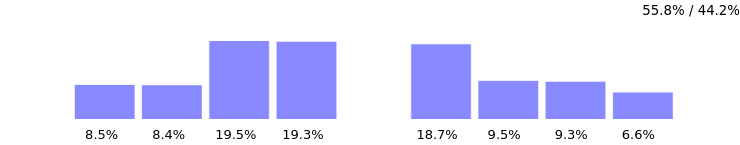
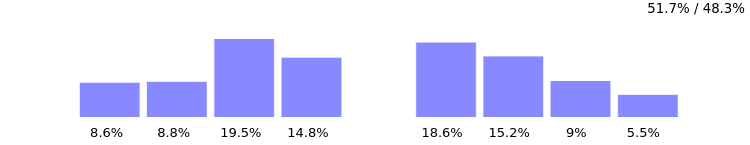
Updated the main page, in order to fit the new version.

diff --git a/index.html b/index.html
@@ -12,13 +12,13 @@
 </head>
 <body>
 
-  <h1> ErgoL </h1>
+  <h1> Ergo-L </h1>
   <p> Une disposition de clavier optimisée pour les développeurs francophones et
     les typographes exigeants. </p>
 
   <div id="demo">
     <div>
-      <input spellcheck="false" placeholder="zone de saisie ErgoL">
+      <input spellcheck="false" placeholder="zone de saisie Ergo-L">
       <x-keyboard src="layouts/ergol.json"></x-keyboard>
       <p>
         <span> powered by
@@ -40,8 +40,8 @@
     <li> disposition <strong>optimisée pour le français et l’anglais</strong> </li>
     <li> couche AltGr optimisée pour l’enchaînement des symboles de programmation </li>
     <li> <strong>conservation des raccourcis usuels</strong> :
-      <kbd>Ctrl</kbd>-{<kbd>Q</kbd>,<kbd>A</kbd>,<kbd>S</kbd>,<kbd>Z</kbd>,<kbd>X</kbd>}
-      (<kbd>Ctrl</kbd>-{<kbd>C</kbd>,<kbd>V</kbd>} sont décalés, mais reste faisable d’une main) </li>
+      <kbd>Ctrl</kbd>-{<kbd>Q</kbd>,<kbd>A</kbd>,<kbd>S</kbd>,<kbd>Z</kbd>,<kbd>X</kbd>,<kbd>V</kbd>}
+      (<kbd>Ctrl-<kbd>C</kbd> est décalé, mais reste faisable d’une main) </li>
     <li> support de tous les caractères spéciaux utilisés en français
       (diacritiques, majuscules accentuées, lettres entrelacées, symboles de ponctuation…) </li>
     <li> <strong>chiffres en accès direct</strong> </li>
@@ -66,14 +66,20 @@
     <li> la gestion des caractères accentués — accès direct, <kbd>AltGr</kbd>,
       touche morte ? </li>
   </ul>
-  <p> <abbr title="trop long ; pas lu :">TL;PL:</abbr> ErgoL est une disposition
+  <p> <abbr title="trop long ; pas lu :">TL;PL:</abbr> Ergo-L est une disposition
     optimisée façon <a href="https://colemak.com/">Colemak</a> /
     <a href="https://workmanlayout.org/">Workman</a>, utilisant une touche morte
     de type <a href="https://qwerty-lafayette.org/">Lafayette</a> pour les
     caractères accentués. </p>
 
-  <a href="stats#/ergol/iso/fr"><img src="img/heatmap_ergol_fr.png"
-    alt="heatmap de la disposition ErgoL sur un corpus francophone"></a>
+    <p> Ergo-L est meilleur que Bépo pour le Français, meilleur que Dvorak pour
+      l’Anglais et meilleur que Qwerty pour la programmation ! </p>
+
+  <div style="text-align: center">
+    <a href="stats#/ergol/iso/fr"><img src="img/heatmap_ergol_fr.png"
+        alt="heatmap de la disposition Ergo-L sur un corpus francophone"></a>
+    <caption> <small> (cliquer sur l’image pour plus d’infos) </small> </caption>
+  </div>
 
   <h3> Placement des lettres </h3>
   <p>Il y a eu plusieurs projets anglo-saxons d’optimisation du clavier, tous
@@ -103,10 +109,10 @@
       doigts. Là encore, les raccourcis sont préservés — sauf
       <kbd>Ctrl</kbd>-<kbd>C</kbd>,<kbd>V</kbd>, décalés d’une colonne. </li>
   </ul>
-  <!-- FIXME: mal dit -->
-  <p> ErgoL reprend les principes de Colemak et Workman. Comme Workman, ErgoL
-    décale <kbd>Ctrl</kbd>-<kbd>C</kbd>,<kbd>V</kbd> d’une colonne, car on pense
-    que le gain d’ergonomie justifie ce décalage. </p>
+  <p> Ergo-L reprend les principes de Colemak et Workman et concerve la plupart
+    des raccourcis usuels. <kbd>Ctrl</kbd>-<kbd>C</kbd> est déplacé mais reste
+    accessible d’une main. Nous pensons que le gain en ergonomie justifie ce
+    décalage </p>
 
   <h3> Polyvalence français / anglais </h3>
   <p> Les dispositions Dvorak, Colemak et Workman sont optimisées pour l’anglais
@@ -158,10 +164,10 @@
       <td>6.71 %</td>
     </tr>
   </table>
-  <p> ErgoL place donc ces lettres aux emplacements les plus confortables
+  <p> Ergo-L place donc ces lettres aux emplacements les plus confortables
     (suivant les principes de Workman) et fait en sorte qu’aucun enchaînement
     fréquent en français ou en anglais ne soit rédhibitoire. On obtient donc une
-    efficacité comparable à Bépo ou Dvorak-fr, sans sacrifier la programmation
+    efficacité supérieure à Bépo ou Dvorak-fr, sans sacrifier la programmation
     ou l’anglais. </p>
 
   <h3> Gestion des accents </h3>
@@ -188,7 +194,7 @@
       <kbd>M</kbd><kbd>Z</kbd><kbd>W</kbd><kbd>Ç</kbd><kbd>Ê</kbd> pour Bépo.
     </li>
   </ul>
-  <p> Pour éviter cela, ErgoL utilise une touche morte de type
+  <p> Pour éviter cela, Ergo-L utilise une touche morte de type
     <a href="https://qwerty-lafayette.org/">Qwerty-Lafayette</a> pour tous les
     caractères accentués et ponctuations spéciales. Cela occasionne environ 4 %
     de frappes supplémentaires pour un texte francophone, ce qui est négligeable
@@ -222,7 +228,7 @@
         <li> tous les symboles de programmation sont en AltGr </li>
         <li> accolades, crochets et parenthèses sont sur les 6 touches les plus accessibles</li>
         <li> la disposition est optimisée pour les enchaînements fréquents en programmation :
-            <code> -&gt; =&gt; </ /> (0) [0] [''] ("") {} ~/ </code> … </li>
+            <code> -&gt; =&gt; &lt;/ /&gt; (0) [0] [''] ("") {} ~/ </code> … </li>
       </ul>
     </li>
   </ul>
@@ -236,11 +242,12 @@
   <p> Les chiffres sont en accès direct, sans <kbd>Shift</kbd>, pour faciliter
     leur enchaînement (= la saisie de nombres). Oubliez votre pavé numérique ! </p>
   <p> Les raccourcis usuels
-    <kbd>Ctrl</kbd>-{<kbd>Q</kbd>,<kbd>A</kbd>,<kbd>S</kbd>,<kbd>Z</kbd>,<kbd>X</kbd>} </li>
-    ont été conservés, car le gain marginal d’ergonomie en mettant une autre
+    <kbd>Ctrl</kbd>-{<kbd>Q</kbd>,<kbd>A</kbd>,<kbd>S</kbd>,<kbd>Z</kbd>,<kbd>X</kbd>,<kbd>V</kbd>} </li>
+    ont été conservés car le gain marginal d’ergonomie en mettant une autre
     lettre à la place n’est pas suffisant pour compenser la perte de ces
-    raccourcis — loin s’en faut (et <kbd>Ctrl</kbd>-{<kbd>C</kbd>,<kbd>V</kbd>}
-    ont été modifié de sorte à gêner le moins possible). </p>
+    raccourcis — loin s’en faut (une exception : <kbd>Ctrl</kbd>-<kbd>C</kbd>
+    qui a permis un gain important d’ergonomie, et a été modifié de sorte à
+    gêner le moins possible). </p>
   <p> Beaucoup d’attention a été portée sur les enchaînements de lettres, avec
     la plupart des enchaînements fréquents qui se font soit avec une alternance
     main gauche / main droite, soit avec un roulement intérieur (se terminant
@@ -249,15 +256,15 @@
     privilégie le confort sur la vitesse</strong> : il est possible de taper
     vite avec n’importe quelle disposition de clavier. </p>
 
-  <h3> ErgoL vs Bépo </h3>
-  <p> ErgoL poursuit les mêmes objectifs que <a href="https://bepo.fr">Bépo</a>
+  <h3> Ergo-L vs Bépo </h3>
+  <p> Ergo-L poursuit les mêmes objectifs que <a href="https://bepo.fr">Bépo</a>
     pour le français, mais d’une façon différente. </p>
   <ul>
     <li> <i lang="en">Heatmap</i> :
       <ul>
         <li> Bépo est typé « Dvorak », i.e. les touches fréquentes sont étalées
           sur toute la <i lang="en">home row</i> ; </li>
-        <li> ErgoL est typé « Workman », i.e. on évite les deux colonnes du
+        <li> Ergo-L est typé « Workman », i.e. on évite les deux colonnes du
           centre pour limiter les extensions de l’index. </li>
       </ul>
     </li>
@@ -277,7 +284,7 @@
           le clavier, quitte à requérir des extensions de doigts
           (<kbd>M</kbd><kbd>Z</kbd><kbd>W</kbd><kbd>Ç</kbd><kbd>Ê</kbd>) ou
           l’utilisation de <kbd>AltGr</kbd> (Ù, tréma, ponctuation…) ; </li>
-        <li> ErgoL privilégie la fluidité et ne place aucune lettre hors de la
+        <li> Ergo-L privilégie la fluidité et ne place aucune lettre hors de la
           zone principale de 3×10 touches ou dans la couche <kbd>AltGr</kbd>. </li>
       </ul>
     </li>
@@ -291,15 +298,27 @@
           touche morte + virgule, le point de suspension en  touche morte + point, etc.
       </ul>
     </li>
+    <li> <abbr title="La proportion totale d’enchaînements effectués avec le même doigt,
+      un type d’enchaînement très inconfortable"> SFU (same finger usage) </abbr> :
+      <ul>
+        <li> Bépo a environ 2.55% de SFU en Français, dont la moitié sont retrouvés
+          sur l’index gauche, qui est déjà trop chargé (23% de la charge totale), et 0.3%
+          se trouvent sur l’auriculaire gauche, trop pour un doigt aussi faible.
+          De plus, une grande partie des touches doublées se trouvent sur
+          l’auriculaire droit (et souvent en extension !) </li>
+        <li> Ergo-L n’a que 1.36% de SFU en Français, et aucun doigt ne fait trop
+          d’effort. Les auriculaires n’ont pratiquement pas de touches doublées. </li>
+      </ul>
+    </li>
   </ul>
   <table>
     <caption style="caption-side: bottom;">
-      Comparaison des charges des doigts entre ErgoL et Bépo<br>
+      Comparaison des charges des doigts entre Ergo-L et Bépo<br>
       <small> (cliquer sur l’image pour plus d’infos) </small> </p>
     </caption>
     <tr>
       <th> </th>
-      <th> ErgoL </th>
+      <th> Ergo-L </th>
       <th> Bépo </th>
     </tr>
     <tr>
@@ -320,9 +339,9 @@
   </table>
 
   <h3> Expériences rejetées et évolutions possibles </h3>
-  <p> Le layout est encore en cours de développement, notamment pour réduire les cas
-    d’enchaînements sur un même doigt. Vous pouvez participer aux travaux en
-    rejoignant le <a href="https://discord.gg/RH34GjQEgC">serveur Discord</a> dédié. </p>
+  <p> Le layout est encore en cours de développement, notamment pour améliorer l’efficacité
+    de la couche altgr. Vous pouvez participer aux travaux en rejoignant le
+    <a href="https://discord.gg/RH34GjQEgC">serveur Discord</a> dédié. </p>
 
   <p> On a envisagé par le passé de placer le <kbd>E</kbd> sous l’index, comme
     en Bépo, parce que c’est la lettre la plus fréquente en français ; mais cela
